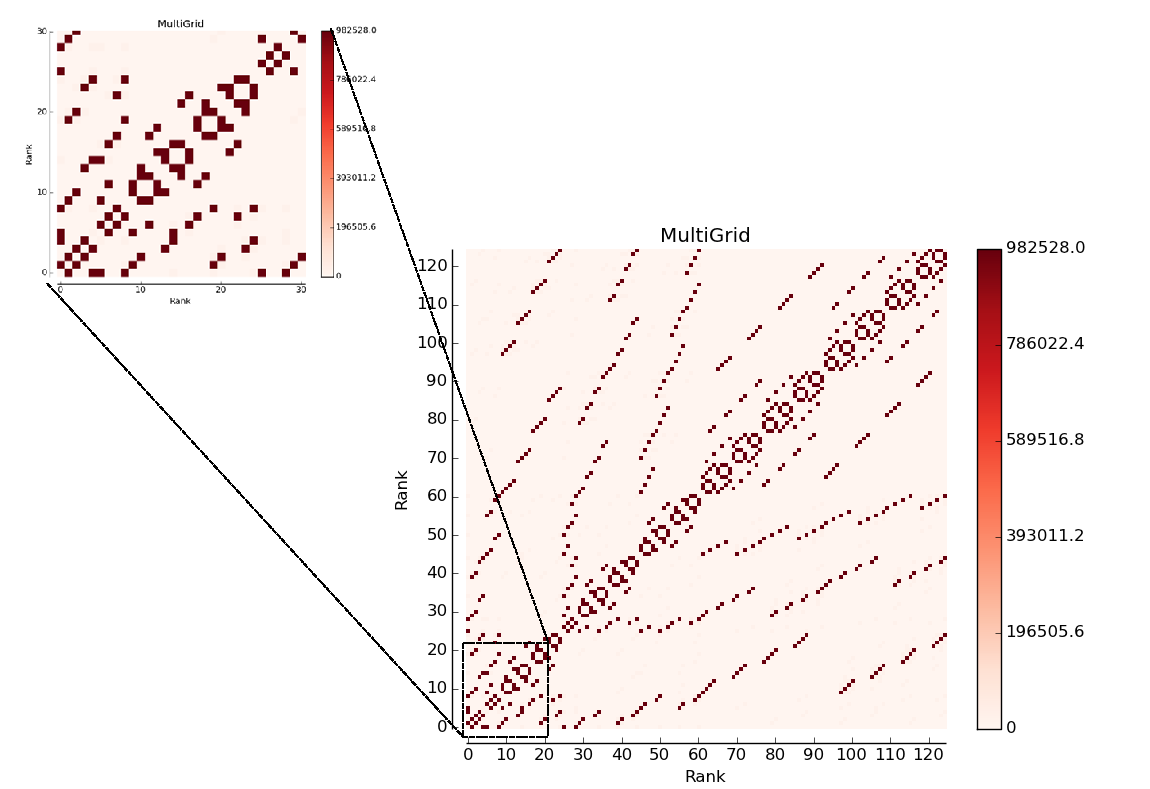
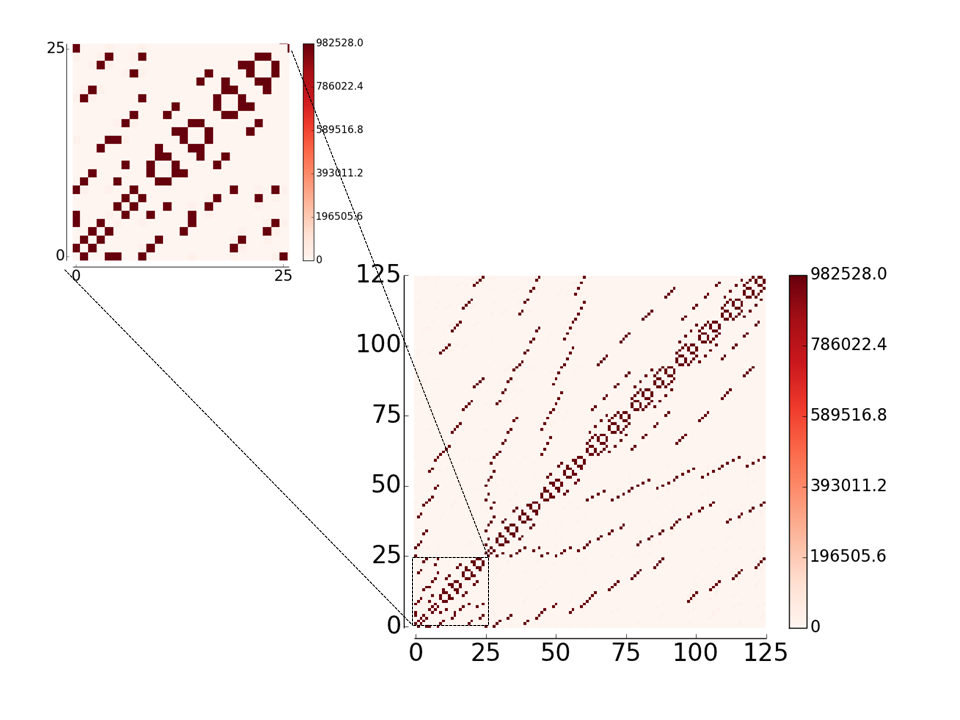
update fig2,3,4 and fig10a

diff --git a/submission.tex b/submission.tex
@@ -140,20 +140,20 @@ There are many applications running on HPC systems, such as Mira \cite{bgq} and 
 
 \begin{figure}[t!]
     \centering
-    \begin{subfigure}[t]{0.24\textwidth}
+    \begin{subfigure}[t]{0.25\textwidth}
         \centering
-        \includegraphics[height=1.2in]{figs/appstudy/amg/amg_pip}
-        \caption{Communication Topology}
+        \includegraphics[height=1.5in]{figs/appstudy/amg/amg_pip}
+        \caption{}
         \label{fig:amg-communication-topology}
     \end{subfigure}%
     ~
     \begin{subfigure}[t]{0.24\textwidth}
         \centering
         \includegraphics[height=1.2in]{figs/appstudy/amg/amg_data_transfer}
-        \caption{Data Volume}
+        \caption{}
         \label{fig:amg-data-trans}
     \end{subfigure}
-    \caption{AMG. (a) rank-to-rank communication topology graph. (b) the data sent/received by each rank in AMG.}
+    \caption{AMG. (a) Rank-to-rank communication topology graph, shows the intensity of communication between ranks in AMG. (b) The amount of data sent/received by each rank in AMG. Y-axis labels the amount of data transferred in MB, x-axis is the rank. }
 \end{figure}
 
 The Algebraic MultiGrid Solver, or AMG, is a parallel algebraic multi-grid solver for linear systems arising from problems on unstructured mesh physics packages. It has been derived directly from the BoomerAMG solver that is being developed in the Center for Applied Scientific Computing (CASC) at LLNL \cite{amg}. The dominant communication pattern is regional communication with decreasing message size for different parts of the multi-grid v-cycle.
@@ -167,20 +167,20 @@ Figure~\ref{fig:amg-data-trans} shows the amount of data each rank transferred i
 
 \begin{figure}[t!]
     \centering
-    \begin{subfigure}[t]{0.22\textwidth}
+    \begin{subfigure}[t]{0.25\textwidth}
         \centering
-        \includegraphics[height=1.2in]{figs/appstudy/cr/cr_pip}
+        \includegraphics[height=1.5in]{figs/appstudy/cr/cr_pip}
         \caption{Communication Topology}
         \label{fig:cr-communication-topology}
     \end{subfigure}
     ~
-    \begin{subfigure}[t]{0.22\textwidth}
+    \begin{subfigure}[t]{0.24\textwidth}
         \centering
         \includegraphics[height=1.2in]{figs/appstudy/cr/cr_data_transfer}
         \caption{Data Volume}
         \label{fig:cr-data-trans}
     \end{subfigure}
-    \caption{CrystalRouter. (a) rank-to-rank communication topology graph. (b) the data sent/received by each rank in CrystalRouter. }
+    \caption{CrystalRouter. (a) Rank-to-rank communication topology graph, shows the intensity of communication between ranks in CrystalRouter. (b) The amount of data sent/received by each rank in CrystalRouter. Y-axis labels the amount of data transferred in MB, x-axis is the rank. }
 \end{figure}
 
 The second MiniApp covered is CrystalRouter, the extracted communication kernel of the full application Nek5000~\cite{crystalrouter}, which is a spectral element CFD application developed at Argonne National Laboratory \changed{\cite{nek5000}}. It features spectral element multi-grid solvers coupled with a highly scalable, parallel coarse-grid solver that is widely used for projects including ocean current modeling, thermal hydraulics of reactor cores, and spatiotemporal chaos. CrystalRouter demonstrates the ``many-to-many'' communication pattern through a scalable multi-stage communication process. The way CrystalRouter works is nodes compute for a while, then synchronize and communicate, continually alternating between these two types of activities.
@@ -194,20 +194,20 @@ Figure~\ref{fig:cr-data-trans} shows the amount of data each rank transferred in
 
 \begin{figure}[t!]
     \centering
-    \begin{subfigure}[t]{0.22\textwidth}
+    \begin{subfigure}[t]{0.25\textwidth}
         \centering
-        \includegraphics[height=1.2in]{figs/appstudy/mg/mg_pip}
+        \includegraphics[height=1.5in]{figs/appstudy/mg/mg_pip}
         \caption{Communication Topology}
         \label{fig:mg-communication-topology}
     \end{subfigure}
     ~
-    \begin{subfigure}[t]{0.22\textwidth}
+    \begin{subfigure}[t]{0.24\textwidth}
         \centering
         \includegraphics[height=1.2in]{figs/appstudy/mg/mg_data_transfer}
         \caption{Data Volume}
         \label{fig:mg-data-trans}
     \end{subfigure}
-    \caption{MultiGrid. (a) rank-to-rank communication topology graph. (b) the data sent/received by each rank in MultiGrid.}
+    \caption{MultiGrid. (a) Rank-to-rank communication topology graph, shows the intensity of communication between ranks in MultiGrid. (b) The amount of data sent/received by each rank in MultiGrid. Y-axis labels the amount of data transferred in MB, x-axis is the rank. }
 \end{figure}
 
 MultiGrid is geometric multi-grid v-cycle from the production elliptic solver BoxLib, a software framework for massively parallel block-structured adaptive mesh refinement (AMR) codes \changed{\cite{boxlib}}. MultiGrid conforms to many-to-many communication pattern with decreasing message size and collectives for different parts of the multi-grid v-cycle. It is widely used for structured grid physics packages. 
